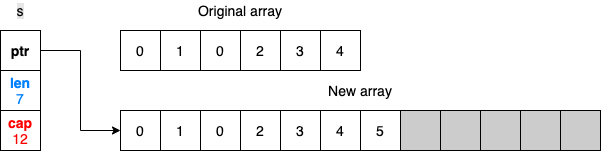
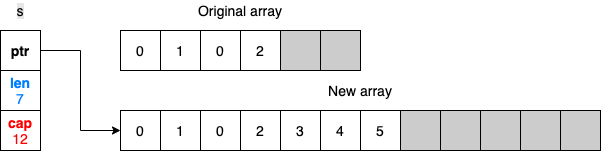
fix(#20): update img 4 and text for append

Changed region(s): [[0.4493, 0.1854, 0.599, 0.4768]]

diff --git a/docs/20-slice.md b/docs/20-slice.md
@@ -67,7 +67,7 @@ If we run this code, we see that the slice was able to cope with our request:
 [0 1 0 2 3 4 5]
 ```
 
-Because an array is a fixed-size structure, it can store the new elements until element 4. When we want to insert element 5, the array is already full: Go internally creates another array by doubling the capacity, copying all the elements, and then inserting element 5. Figure 4 shows this process.
+Because an array is a fixed-size structure, we cannot fit all the new elements, since there isn’t enough space for element 5. Go detects this in advance, creates another array with doubled capacity, copies the existing elements, and inserts all the new ones. Figure 4 illustrates this process.
 
 <figure markdown>
   ![](img/slice-4.png)
